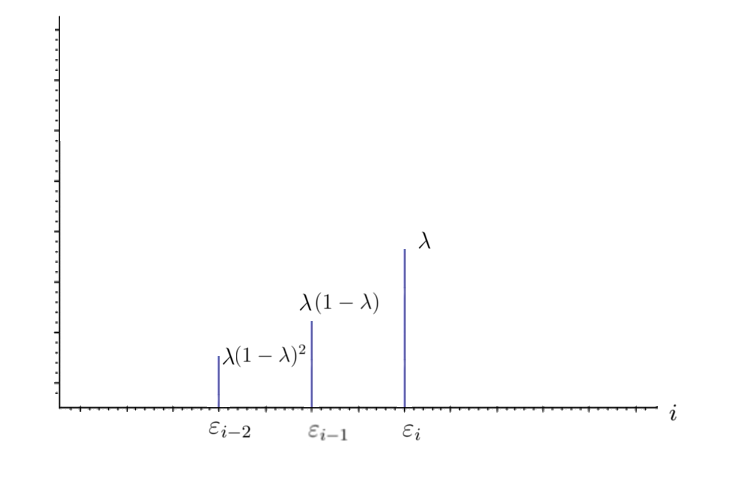
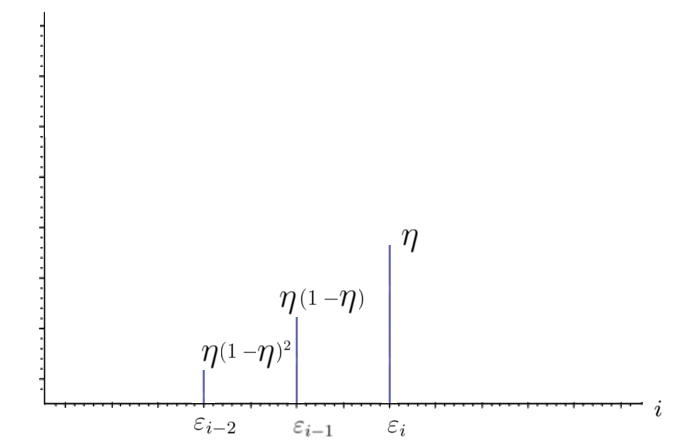
updated lecture 5

Changed region(s): [[0.0618, 0.0292, 0.9882, 0.9933], [0.5559, 0.4966, 0.6176, 0.5551], [0.5868, 0.964, 0.6176, 0.9933]]

diff --git a/lecture5/ML-lecture5.tex b/lecture5/ML-lecture5.tex
@@ -29,6 +29,81 @@
 \frame{\titlepage}
 
 \begin{frame}\frametitle{Разбор летучки}
+Какие проблемы могут возникнуть при использовании метода k-means? Как их избежать?
+\end{frame}
+
+\begin{frame}\frametitle{Разбор летучки}
+\begin{itemize}
+\item[--] Чувствительность к начальному выбору $\mu_c$
+\item[--] Необходимость задавать $k$
+\end{itemize}
+\end{frame}
+
+\begin{frame}\frametitle{Разбор летучки}
+В чем заключается идея алгоритма Xmeans?
+\end{frame}
+
+\begin{frame}\frametitle{Разбор летучки}
+Идея:\\
+\begin{itemize}
+\item[--] Получать на вход не k, а диапазон, в котором может находиться k.
+\item[--] Запустить k-means на самом маленьком значении из диапазона.
+\item[--] Разбивать пополам полученные кластеры и проверять, не улучшилась ли кластеризация.
+\end{itemize}
+\end{frame}
+
+\begin{frame}\frametitle{Разбор летучки}
+\begin{itemize}
+\item[--] Несколько случайных кластеризаций
+\item[--] Постепенное наращивание числа $k$
+\item[--] Использование k-means++
+\end{itemize}
+\end{frame}
+
+\begin{frame}\frametitle{Разбор летучки}
+Как можно использовать минимальное остовное дерево для разбиения выборки на кластеры? Как найти минимальное остовное дерево?
+\end{frame}
+
+\begin{frame}\frametitle{Разбор летучки}
+Построить минимальное остовное дерево, а потом выкидывать из него ребра максимального веса.\\
+\vspace{5mm}
+Сколько ребер выбросим -- столько кластеров получим.
+\end{frame}
+
+\begin{frame}\frametitle{Разбор летучки}
+Для чего требуется свойство монотонности при иерархической кластеризации?
+\end{frame}
+
+\begin{frame}\frametitle{Разбор летучки}
+Чтобы избежать самопересечений в постоенном дереве.
+\end{frame}
+
+\begin{frame}\frametitle{Разбор летучки}
+Каким образом выбираются центры кластеров в алгоритме k-means++?
+\end{frame}
+
+\begin{frame}\frametitle{Разбор летучки}
+\begin{itemize}
+\item[--] Выбрать первый центроид случайным образом
+\item[--] Для каждой точки найти значение квадрата расстояния до ближайшего центроида.
+\item[--] Выбрать из этих точек следующий центроид так, чтобы вероятность выбора точки была пропорциональна вычисленному для неё квадрату расстояния
+\end{itemize}
+\end{frame}
+
+\begin{frame}\frametitle{Разбор летучки}
+Что такое отступ обобщенного метрического классификатора?
+\end{frame}
+
+\begin{frame}\frametitle{Разбор летучки}
+Отступ показывает степень "типичности объекта".\\
+\vspace{5mm}
+Отступом объекта ${x_i \in X^l}$ относительно классификатора $a$ называется величина\\
+${M(x_i) = \Gamma_{y_i}(x_i) - \max\limits_{y \in Y\backslash y_i} \Gamma_y(x_i)}$
+
+\end{frame}
+
+\begin{frame}\frametitle{Разбор летучки}
+$\Gamma_y(u)$ - оценка близости объекта $u$ к классу ${y}$
 \end{frame}
 
 
@@ -112,7 +187,7 @@ ${X^l = (x_i,y_i)_{i = 1}^l}$ -- обучающая выборка\\
 ${Y=\left\{-1,+1\right\}}$\\
 \vspace{5mm}
 Задача:\\
-Построить алгоритм классификации ${a(x,\theta) = \sign g(x,\theta)}$\\\vspace{5mm}
+Построить алгоритм классификации ${a(x,w) = \sign g(x,\theta)}$\\\vspace{5mm}
 ${g(x,\theta)}$ -- разделяющая функция\\
 $\theta$ -- вектор параметров, $\theta \in \mathbb{R}^l$
 \end{frame}
@@ -155,7 +230,7 @@ $a(\mathbf{x}, \mathbf{w}) = sign(\langle \mathbf{w}, \mathbf{x}\rangle)$\\
 \end{frame}
 
 \begin{frame}\frametitle{Определение отступа}
-${g(\mathbf{x}, \mathbf{w}) = \langle \mathbf{w}, \mathbf{x}\rangle = 0}$ -- разделяющая поверхность\\
+${g = \langle \mathbf{w}, \mathbf{x}\rangle = 0}$ -- разделяющая поверхность\\
 $M_i(\mathbf{w}) = \langle \mathbf{w}, \mathbf{x_i}\rangle y_i$ -- отступ объекта $x_i$\\
 ${M_i(\mathbf{w})<0}$ $\Rightarrow$ алгоритм $a(\mathbf{x},\mathbf{w})$ ошибается на $x_i$
 \end{frame}
@@ -176,20 +251,20 @@ ${Q(\mathbf{w})}$ -- функционал качества\\
 
 \begin{frame}\frametitle{Отступ}
 \begin{figure}[htbp]
-  \includegraphics[height=190pt, keepaspectratio = true]{images/margin1}   
+  \includegraphics[height=190pt, keepaspectratio = true]{images/margin1}
 \end{figure}
 \end{frame}
 
 \begin{frame}\frametitle{Отступ}
 \begin{figure}[htbp]
-  \includegraphics[height=190pt, keepaspectratio = true]{images/margin2}   
+  \includegraphics[height=190pt, keepaspectratio = true]{images/margin2}
 \end{figure}
 \end{frame}
 
 
 \begin{frame}\frametitle{Функция $[M<0]$}
 \begin{figure}[htbp]
-  \includegraphics[height=160pt, keepaspectratio = true]{images/l1}   
+  \includegraphics[height=160pt, keepaspectratio = true]{images/l1}
 \end{figure}
 \end{frame}
 
@@ -197,13 +272,13 @@ ${Q(\mathbf{w})}$ -- функционал качества\\
 \begin{frame}\frametitle{Минимизация эмпирического риска}
 ${Q(\mathbf{w}) = \sum\limits_{i=1}^l \left[ M_i(\mathbf{w}) < 0 \right] \leq}$\\ \vspace{3mm}
 \hspace{10mm} ${\leq \sum\limits_{i=1}^l \mathcal{L}(M_i(\mathbf{w})) \rightarrow \min\limits_{\mathbf{w}} }$\\\vspace{3mm}
-$\mathcal{L}$ -- функция потерь, невозрастающая, неотрицательная.\\ 
+$\mathcal{L}$ -- функция потерь, невозрастающая, неотрицательная.\\
 $\mathcal{L}$ должна мажорировать $\left[M_i(\mathbf{w}) < 0 \right]$
 \end{frame}
 
 \begin{frame}\frametitle{Примеры $\mathcal{L}$}
 \begin{figure}[htbp]
-  \includegraphics[height=160pt, keepaspectratio = true]{images/l}   
+  \includegraphics[height=160pt, keepaspectratio = true]{images/l}
 \end{figure}
 \begin{enumerate}
 \item $\left[M_i(\mathbf{w}) < 0 \right]$
@@ -219,18 +294,18 @@ $\mathcal{L}$ должна мажорировать $\left[M_i(\mathbf{w}) < 0 \
 
 \begin{frame}\frametitle{Градиент}
 \begin{figure}[htbp]
-  \includegraphics[height=160pt, keepaspectratio = true]{images/gradient}   
+  \includegraphics[height=160pt, keepaspectratio = true]{images/gradient}
 \end{figure}
 \end{frame}
 
 %Численный метод оптимизации
 \begin{frame}\frametitle{Метод градиентного спуска}
-Input: $\eta$ -- градиентный шаг (темп обучения)\\
+Input: $\alpha$ -- градиентный шаг (темп обучения)\\
 Output: $w_0, w_1, \dots, w_n$\\
-\vspace{3mm}	
+\vspace{3mm}
 Инициализировать: $w_j$, $j=0,\dots, n$\\
 Повторить пока $\mathbf{w}$ не стабилизируются:\\
-\hspace{10mm} $\mathbf{w} =  \mathbf{w} - \eta \bigtriangledown Q(\mathbf{w})$\\
+\hspace{10mm} $\mathbf{w} =  \mathbf{w} - \alpha \bigtriangledown Q(\mathbf{w})$\\
 
 \vspace{10mm}
 $\bigtriangledown Q(\mathbf{w}) = (\frac{\partial Q(\mathbf{w})}{\partial w_j})_{j=0}^n$\\
@@ -238,19 +313,19 @@ $\bigtriangledown Q(\mathbf{w}) = (\frac{\partial Q(\mathbf{w})}{\partial w_j})_
 
 \begin{frame}\frametitle{Градиентный спуск}
 \begin{figure}[htbp]
-  \includegraphics[height=160pt, keepaspectratio = true]{images/gradient_descent}   
+  \includegraphics[height=160pt, keepaspectratio = true]{images/gradient_descent}
 \end{figure}
 \end{frame}
 
 \begin{frame}\frametitle{Метод градиентного спуска}
 Случай двух признаков.\\
-Input: $\eta$ -- градиентный шаг (темп обучения)\\
+Input: $\alpha$ -- градиентный шаг (темп обучения)\\
 Output: $w_0, w_1$\\
-\vspace{3mm}	
+\vspace{3mm}
 Инициализировать: $w_0$, $w_1$\\
 Повторить пока $w_0$ и $w_1$ не стабилизируются:\\
-\hspace{10mm} $tmp_0 =  w_0 - \eta \frac{\partial Q(w)}{\partial w_0}$\\
-\hspace{10mm} $tmp_1 =  w_1 - \eta \frac{\partial Q(w)}{\partial w_1}$\\
+\hspace{10mm} $tmp_0 =  w_0 - \alpha \frac{\partial Q(w)}{\partial w_0}$\\
+\hspace{10mm} $tmp_1 =  w_1 - \alpha \frac{\partial Q(w)}{\partial w_1}$\\
 \hspace{10mm} $w_0 = tmp_0$\\
 \hspace{10mm} $w_1 = tmp_1$
 \end{frame}
@@ -265,21 +340,21 @@ $\bigtriangledown Q(\mathbf{w}) = (\frac{\partial Q(\mathbf{w})}{\partial w_j})_
 
 \begin{frame}\frametitle{Маленький градиентный шаг}
 \begin{figure}[htbp]
-  \includegraphics[height=160pt, keepaspectratio = true]{images/learning_rate_small}   
+  \includegraphics[height=160pt, keepaspectratio = true]{images/learning_rate_small}
 \end{figure}
 \end{frame}
 
 \begin{frame}\frametitle{Большой градиентный шаг}
 \begin{figure}[htbp]
-  \includegraphics[height=160pt, keepaspectratio = true]{images/learning_rate_large}   
+  \includegraphics[height=160pt, keepaspectratio = true]{images/learning_rate_large}
 \end{figure}
 \end{frame}
 
 \begin{frame}\frametitle{Выбор величины шага}
 \begin{itemize}
-\item[--] $\eta_t \rightarrow 0$\\
+\item[--] $\alpha_t \rightarrow 0$\\
 \item[--] Метод скорейшего градиентного спуска:\\
-$Q(w - \eta \bigtriangledown Q(w)) \rightarrow \min\limits_{\eta}$
+$Q(w - \alpha \bigtriangledown Q(w)) \rightarrow \min\limits_{\alpha}$
 \item[--] Пробные случайные шаги
 \end{itemize}
 \end{frame}
@@ -289,42 +364,42 @@ $Q(w - \eta \bigtriangledown Q(w)) \rightarrow \min\limits_{\eta}$
 \end{frame}
 
 \begin{frame}\frametitle{В чем проблема?}
-$\mathbf{w} =  \mathbf{w} - \eta \sum\limits_{i=1}^l \mathcal{L}'(\langle \mathbf{w}, \mathbf{x_i} \rangle y_i)\mathbf{x_i}y_i$\\
+$\mathbf{w} =  \mathbf{w} - \alpha \sum\limits_{i=1}^l \mathcal{L}'(\langle \mathbf{w}, \mathbf{x_i} \rangle y_i)\mathbf{x_i}y_i$\\
 \vspace{5mm}
 \end{frame}
 
 \begin{frame}\frametitle{Метод стохастического градиента}
-$\mathbf{w} =  \mathbf{w} - \eta \sum\limits_{i=1}^l \mathcal{L}'(\langle \mathbf{w}, \mathbf{x_i}\rangle y_i)\mathbf{x_i}y_i$\\
+$\mathbf{w} =  \mathbf{w} - \alpha \sum\limits_{i=1}^l \mathcal{L}'(\langle \mathbf{w}, \mathbf{x_i}\rangle y_i)\mathbf{x_i}y_i$\\
 \vspace{5mm}
 Давайте брать $(x_i, y_i)$ по одному и сразу обновлять вектор весов
 \end{frame}
 
 
 \begin{frame}\frametitle{Алгоритм}
-Input: $X^l$, $\eta$, $\lambda$\\
+Input: $X^l$, $\alpha$, $\eta$\\
 Output: $w_0, w_1, \dots, w_n$\\
 \vspace{3mm}
 Перемешать данные в $X^l$\\
 Инициализировать: $w_j$, $j=0,\dots, n$\\
 \hspace{35mm} ${Q}(\mathbf{w}) = \sum\limits_{i=1}^l \mathcal{L}(\langle \mathbf{w}, \mathbf{x_i} \rangle y_i)$\\
 Повторить пока $Q$ и/или $w$ не стабилизируются:\\
-\hspace{5mm} Взять $x_i$ из $X^l$ \\
+\hspace{5mm} Взять $x_i$ из $X^l$\\
 \hspace{5mm} Потеря: $\varepsilon_i = \mathcal{L}(\langle \mathbf{w}, \mathbf{x_i} \rangle y_i)$\\
-\hspace{5mm} Градиентный шаг: $w =  w - \eta \mathcal{L}'(\langle \mathbf{w}, \mathbf{x_i}\rangle y_i)\mathbf{x_i}y_i$\\
-\hspace{5mm} Оценить $Q = (1-\lambda)Q + \lambda \varepsilon_i$
+\hspace{5mm} Градиентный шаг: $w =  w - \alpha \mathcal{L}'(\langle \mathbf{w}, \mathbf{x_i}\rangle y_i)\mathbf{x_i}y_i$\\
+\hspace{5mm} Оценить $Q = (1-\eta)Q + \eta \varepsilon_i$
 \end{frame}
 
 
 \begin{frame}\frametitle{Градиентный спуск}
 \begin{figure}[htbp]
-  \includegraphics[height=160pt, keepaspectratio = true]{images/gradient_descent2}   
+  \includegraphics[height=160pt, keepaspectratio = true]{images/gradient_descent2}
 \end{figure}
 \end{frame}
 
 
 \begin{frame}\frametitle{Учет ошибки $\varepsilon_i$ в алгоритме}
 \begin{figure}[htbp]
-  \includegraphics[height=160pt, keepaspectratio = true]{images/l2}   
+  \includegraphics[height=160pt, keepaspectratio = true]{images/l2}
 \end{figure}
 \end{frame}
 
@@ -332,13 +407,13 @@ Output: $w_0, w_1, \dots, w_n$\\
 Чего не хватает?
 \end{frame}
 
-\begin{frame}\frametitle{Вопрос}
-Как выбрать параметр $\lambda$?
-\end{frame}
+%\begin{frame}\frametitle{Вопрос}
+%Как выбрать параметр $\lambda$?
+%\end{frame}
 
-\begin{frame}\frametitle{Эмпирическое правило для выбора $\lambda$}
-$\lambda = \frac{1}{k}$, где $k$ -- количество объектов, по которым хотим усреднять функционал.
-\end{frame}
+%\begin{frame}\frametitle{Эмпирическое правило для выбора $\lambda$}
+%$\lambda = \frac{1}{k}$, где $k$ -- количество объектов, по которым хотим усреднять функционал.
+%\end{frame}
 
 \begin{frame}\frametitle{Вопрос}
 Что значит -- "пока $Q$ и/или $w$ не стабилизируются"?
@@ -346,13 +421,13 @@ $\lambda = \frac{1}{k}$, где $k$ -- количество объектов, п
 
 \begin{frame}\frametitle{Зависимость $Q$ от номера итерации}
 \begin{figure}[htbp]
-  \includegraphics[height=160pt, keepaspectratio = true]{images/stochastic_gradient}   
+  \includegraphics[height=160pt, keepaspectratio = true]{images/stochastic_gradient}
 \end{figure}
 \end{frame}
 
 \begin{frame}\frametitle{Зависимость $Q$ от номера итерации}
 \begin{figure}[htbp]
-  \includegraphics[height=160pt, keepaspectratio = true]{images/stochastic_gradient1}   
+  \includegraphics[height=160pt, keepaspectratio = true]{images/stochastic_gradient1}
 \end{figure}
 \end{frame}
 
@@ -371,7 +446,7 @@ $\lambda = \frac{1}{k}$, где $k$ -- количество объектов, п
 \begin{itemize}
 \item[--] $w_j = 0$, j = 1, \dots, n
 \item[--] $w_j = random(-\frac{1}{2n}, \frac{1}{2n})$ -- небольшие случайные значения
-\item[--] $w_j = \frac{\langle y, f_j \rangle}{\langle f_j, f_j \rangle}$, $f_j = (f_j(x_i))_{i = 1}^n$
+%\item[--] $w_j = \frac{\langle y, f_j \rangle}{\langle f_j, f_j \rangle}$, $f_j = (f_j(x_i))_{i = 1}^n$
 \item[--] Обучение по небольшой случайной подвыборке объектов
 \item[--] Многократный запуск из разных случайных начальных приближений
 \end{itemize}
@@ -414,7 +489,7 @@ $\lambda = \frac{1}{k}$, где $k$ -- количество объектов, п
 $a(\mathbf{x}, \mathbf{w}) = sign(\langle \mathbf{w}, \mathbf{x}\rangle)$\\
 Линейная зависимость признаков:\\
 $\forall \mathbf{x} \exists \mathbf{u}: \langle \mathbf{u}, \mathbf{x}\rangle = 0$\\
-$\Rightarrow \forall \gamma: a'(\mathbf{x}, \mathbf{w}) = sign(\langle \mathbf{w} + \gamma \mathbf{u}, \mathbf{x}\rangle)$\\
+$\Rightarrow \forall \gamma: a(\mathbf{x}, \mathbf{w}) = sign(\langle \mathbf{w} + \gamma \mathbf{u}, \mathbf{x}\rangle)$\\
 \vspace{5mm}
 Алгоритм $a'$ работает точно также как исходный $a$.\\
 А значит мы можем получить любое решение из семейства $\mathbf{w} + \gamma \mathbf{u}$
@@ -455,7 +530,8 @@ $Q_{\tau} = Q + \frac{\tau}{2}\Vert \mathbf{w} \Vert^2 \rightarrow \min\limits_{
 $\bigtriangledown Q_{\tau} = \bigtriangledown Q + \tau \mathbf{w}$\\
 \vspace{5mm}
 Градиентный шаг:\\
-$\mathbf{w} = \mathbf{w}(1-\eta \tau) - \eta \bigtriangledown Q(\mathbf{w})$
+$\mathbf{w} = \mathbf{w}(1-\alpha \tau) - \alpha \bigtriangledown Q(\mathbf{w})$\\
+$\tau$ -- параметр регуляризации
 \end{frame}
 
 \begin{frame}\frametitle{Вопрос}
